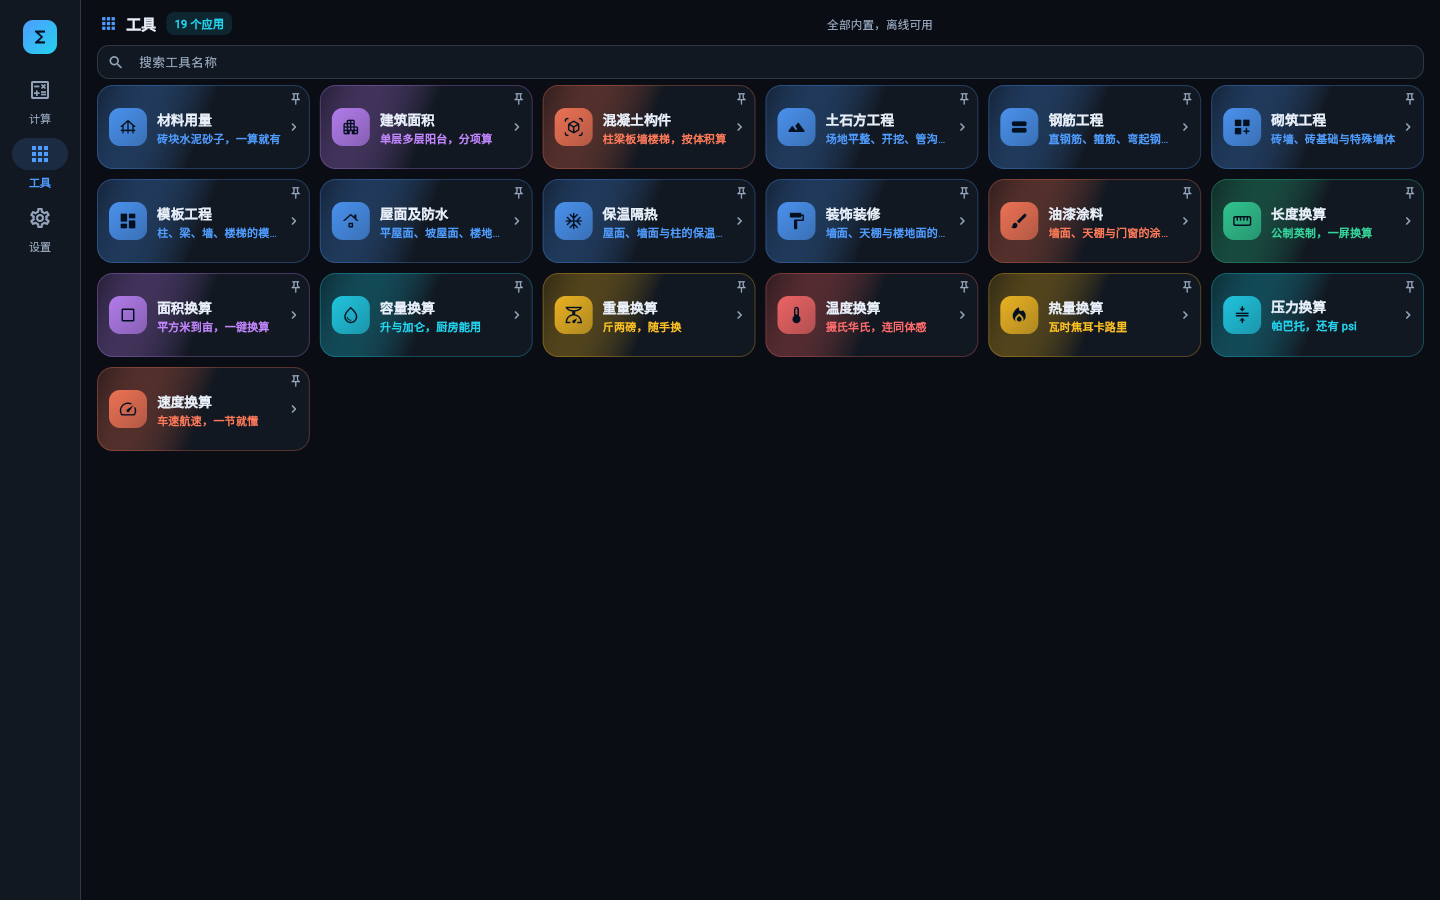
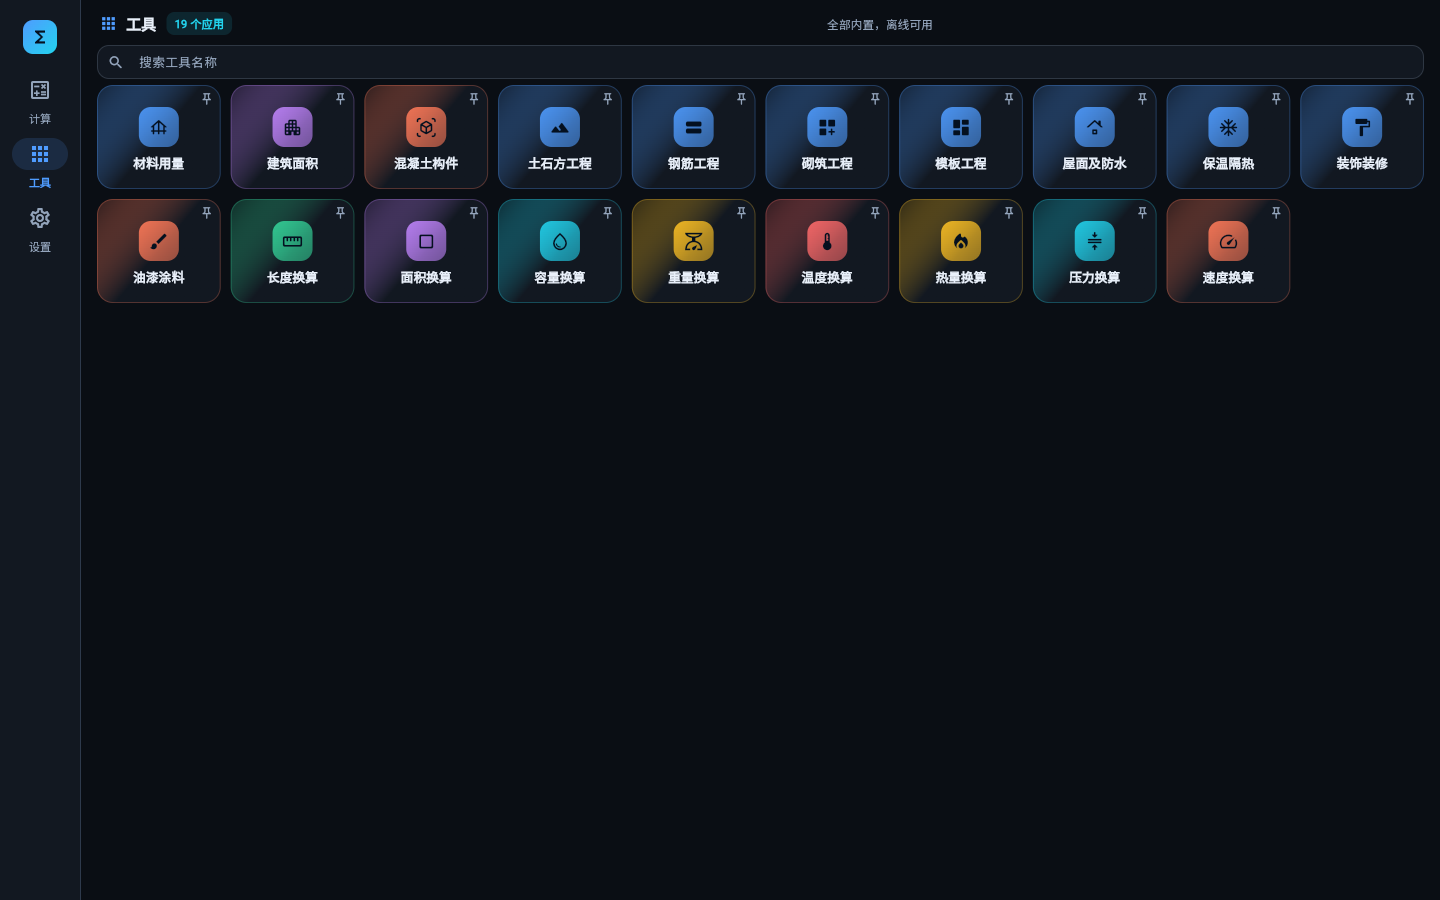
工具页卡片改为「上图标、下名称」的方形格子
- _ToolCard 由「左图标 + 右名称/卖点 + 箭头」改成图标居中在上、名称居中的两行文字
- 网格尺寸跟着调小：最大列宽 240 → 132、行高 84 → 104，1440 宽排 10 列、手机排 3 列
- 卖点不再显示在卡片上，仍参与搜索；README / AGENTS 同步说明
- 新增 Widget 测试：图标在名称上方且水平居中、卖点不出现在卡片上

Changed region(s): [[0.0625, 0.0933, 1.0, 0.5289]]

diff --git a/lib/ui/tools_page.dart b/lib/ui/tools_page.dart
@@ -245,11 +245,11 @@ class _ToolsBodyState extends State<_ToolsBody> {
     return SliverPadding(
       padding: const EdgeInsets.symmetric(horizontal: 16),
       sliver: SliverGrid.builder(
-        // 卡片只有图标 + 名称 + 卖点，宽度取 240：1440 宽时排 6 列，
-        // 手机（390）也能排下两列
+        // 卡片是「上图标、下名称」的方形格子，宽度取 132：1440 宽时排 10 列，
+        // 手机（390）排三列
         gridDelegate: const SliverGridDelegateWithMaxCrossAxisExtent(
-          maxCrossAxisExtent: 240,
-          mainAxisExtent: 84,
+          maxCrossAxisExtent: 132,
+          mainAxisExtent: 104,
           crossAxisSpacing: 10,
           mainAxisSpacing: 10,
         ),
@@ -337,7 +337,7 @@ class _ToolsBodyState extends State<_ToolsBody> {
   }
 }
 
-/// 商店风格的应用卡片。
+/// 商店风格的应用卡片：上面是图标，下面是工具名称（居中，最多两行）。
 class _ToolCard extends StatelessWidget {
   const _ToolCard({
     required this.tool,
@@ -382,15 +382,16 @@ class _ToolCard extends StatelessWidget {
                   context,
                 ).push(MaterialPageRoute<void>(builder: tool.pageBuilder)),
                 child: Padding(
-                  // 右上角留给图钉，文字别顶到它下面
-                  padding: const EdgeInsets.fromLTRB(12, 12, 8, 12),
-                  child: Row(
+                  // 右上角留给图钉，图标与名称整体居中
+                  padding: const EdgeInsets.fromLTRB(10, 13, 10, 10),
+                  child: Column(
+                    mainAxisAlignment: MainAxisAlignment.center,
                     children: [
                       Container(
-                        width: 38,
-                        height: 38,
+                        width: 40,
+                        height: 40,
                         decoration: BoxDecoration(
-                          borderRadius: BorderRadius.circular(11),
+                          borderRadius: BorderRadius.circular(12),
                           gradient: LinearGradient(
                             begin: Alignment.topLeft,
                             end: Alignment.bottomRight,
@@ -402,46 +403,21 @@ class _ToolCard extends StatelessWidget {
                         ),
                         child: Icon(
                           tool.icon,
-                          size: 20,
+                          size: 21,
                           color: AppColors.onPrimary,
                         ),
                       ),
-                      const SizedBox(width: 10),
-                      Expanded(
-                        child: Column(
-                          crossAxisAlignment: CrossAxisAlignment.start,
-                          mainAxisAlignment: MainAxisAlignment.center,
-                          children: [
-                            Padding(
-                              padding: const EdgeInsets.only(right: 20),
-                              child: Text(
-                                tool.name,
-                                maxLines: 1,
-                                overflow: TextOverflow.ellipsis,
-                                style: const TextStyle(
-                                  fontSize: 13.5,
-                                  fontWeight: FontWeight.w600,
-                                ),
-                              ),
-                            ),
-                            const SizedBox(height: 2),
-                            Text(
-                              tool.tagline,
-                              maxLines: 1,
-                              overflow: TextOverflow.ellipsis,
-                              style: TextStyle(
-                                color: tool.color,
-                                fontSize: 11,
-                                fontWeight: FontWeight.w600,
-                              ),
-                            ),
-                          ],
+                      const SizedBox(height: 8),
+                      Text(
+                        tool.name,
+                        maxLines: 2,
+                        textAlign: TextAlign.center,
+                        overflow: TextOverflow.ellipsis,
+                        style: const TextStyle(
+                          fontSize: 12.5,
+                          height: 1.2,
+                          fontWeight: FontWeight.w600,
                         ),
-                      ),
-                      Icon(
-                        Icons.chevron_right_rounded,
-                        size: 16,
-                        color: AppColors.textSecondary,
                       ),
                     ],
                   ),

diff --git a/test/widget_test.dart b/test/widget_test.dart
@@ -2161,6 +2161,26 @@ void main() {
     expect(find.byType(NavigationBar), findsOneWidget);
   });
 
+  testWidgets('工具页卡片：上图标、下名称，卖点不在卡片上显示', (tester) async {
+    await pumpApp(tester, const Size(1440, 900));
+
+    await tester.tap(find.text('工具'));
+    await tester.pumpAndSettle();
+
+    final name = find.text('长度换算');
+    expect(name, findsOneWidget);
+    // 卡片内的图标：图标整体在名称上方，且两者水平居中
+    final card = find.ancestor(of: name, matching: find.byType(InkWell)).first;
+    final icon = find.descendant(of: card, matching: find.byType(Icon)).first;
+    final iconCenter = tester.getCenter(icon);
+    final nameCenter = tester.getCenter(name);
+    expect(iconCenter.dy, lessThan(nameCenter.dy));
+    expect((iconCenter.dx - nameCenter.dx).abs(), lessThan(1));
+    // 卖点只参与搜索，不在卡片上显示
+    expect(find.text('公制英制，一屏换算'), findsNothing);
+    expect(tester.takeException(), isNull);
+  });
+
   testWidgets('工具页：手机尺寸下卡片与工具页不溢出', (tester) async {
     await pumpApp(tester, const Size(390, 844));
 

diff --git a/AGENTS.md b/AGENTS.md
@@ -95,7 +95,8 @@ cmd.exe /c "cd /d $(wslpath -w "$PWD") && flutter test"
   （取不到回落简体原文，`zhHant` 也用原文），单位说明用 `notes` + `noteIn()`
   （en / ja / es 三份，中文回落原文、缺翻译回落英文）。新增单位必须补 en / ja / es 三项，
   带说明的单位说明也要三份，`test/tools_test.dart` 会遍历各 catalog 检查。
-- **界面文案一律走多语言**：应用级（导航、设置、工具页标题）用 `t.xxx`（`lib/l10n/app_strings.dart` 里 `AppStrings` 的五个实现都要补），工具卡片名称 / 卖点写进 `lib/ui/tools/<tool>/<tool>_lang.dart` 的 `k<Tool>Lang`（`ToolText` 只有这两项，卡片不再显示长说明）。注释用中文，界面文案用各语言母语。
+- **界面文案一律走多语言**：应用级（导航、设置、工具页标题）用 `t.xxx`（`lib/l10n/app_strings.dart` 里 `AppStrings` 的五个实现都要补），工具卡片名称 / 卖点写进 `lib/ui/tools/<tool>/<tool>_lang.dart` 的 `k<Tool>Lang`（`ToolText` 只有这两项，卡片不再显示长说明）。
+  工具卡片是「上图标、下名称」的方形格子（`lib/ui/tools_page.dart` 的 `_ToolCard`），名称最多两行；卖点只参与搜索，不在卡片上显示。注释用中文，界面文案用各语言母语。
 - **计算器页的文案单独成表**：`lib/l10n/calc_strings.dart`（`kCalcStrings`），写法同工具页
   `<tool>_strings.dart`。内置函数的说明按函数名查表
   （`CalcStrings.functionDescriptions` + `functionDescription()`）：

diff --git a/README.md b/README.md
@@ -330,8 +330,8 @@ L中 30 m、L内 20 m、实铺宽 0.24 m 的墙基 = 12 ㎡。
   （`lib/theme/app_theme.dart` 的 `kDarkPalette` / `kLightPalette`），
   不只是换背景色，卡片、描边、按键渐变都跟着换
 - **语言**：下拉框切换简体中文、繁體中文、English、日本語、Español；首次启动跟随系统语言
-  （系统语言不在支持列表里时用英文），之后以设置里选的为准。工具卡片名称、卖点
-  与工具内文案都随语言切换
+  （系统语言不在支持列表里时用英文），之后以设置里选的为准。工具卡片名称（卡片是「上图标、下名称」的方形格子，名称最多两行）、
+  搜索用的卖点与工具内文案都随语言切换
 - **置顶数量**：工具页最多能置顶几个工具（2 ~ 5，默认 3），卡片右上角显示当前「已置顶 2 / 3」；
   置顶项本身在工具页点图钉切换，存在本地（键 `pinned_tools` / `pinned_limit`）
 - **单位换算默认值**：长度 / 面积 / 容量 / 重量 / 速度五个换算工具各记一套「默认计量体系」与
